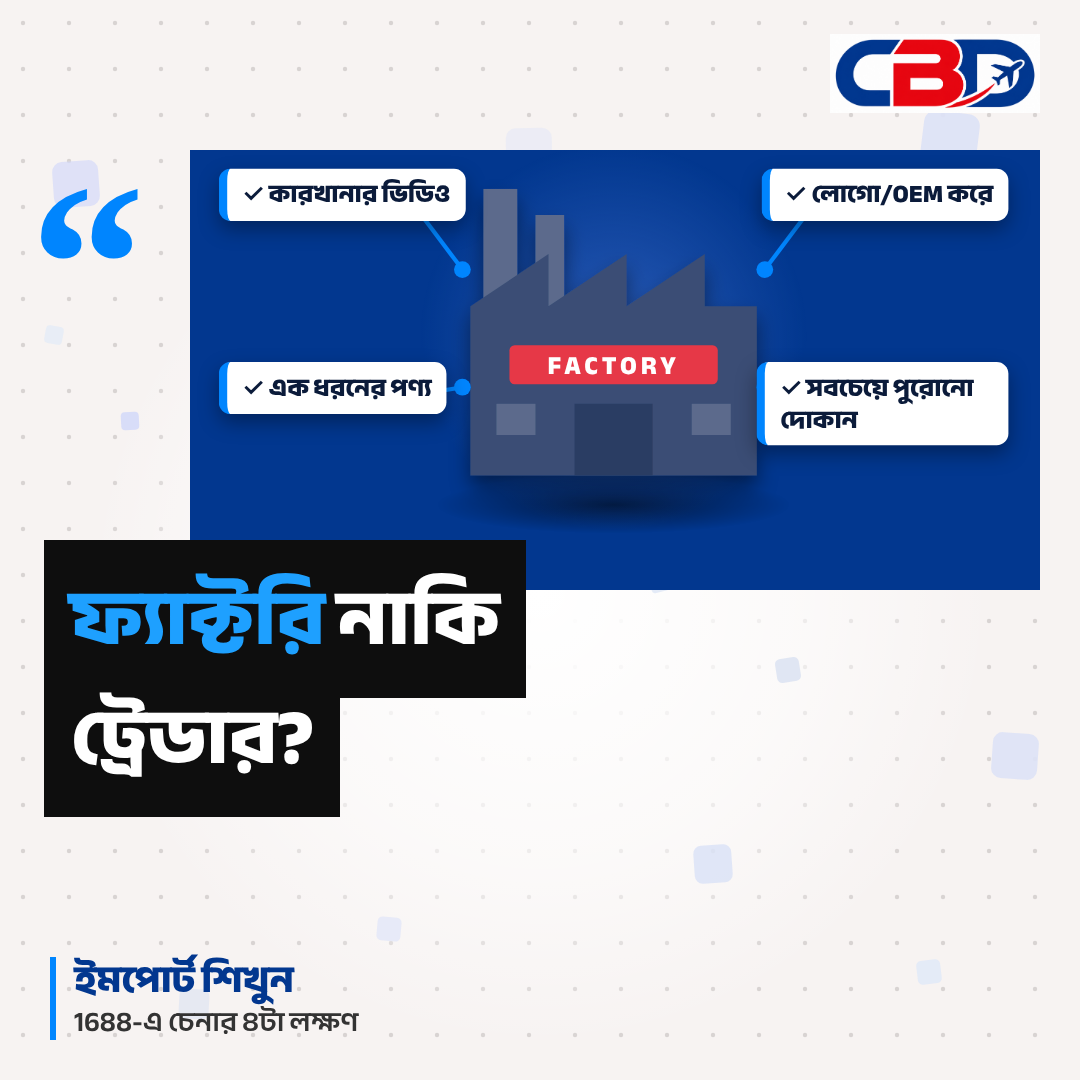
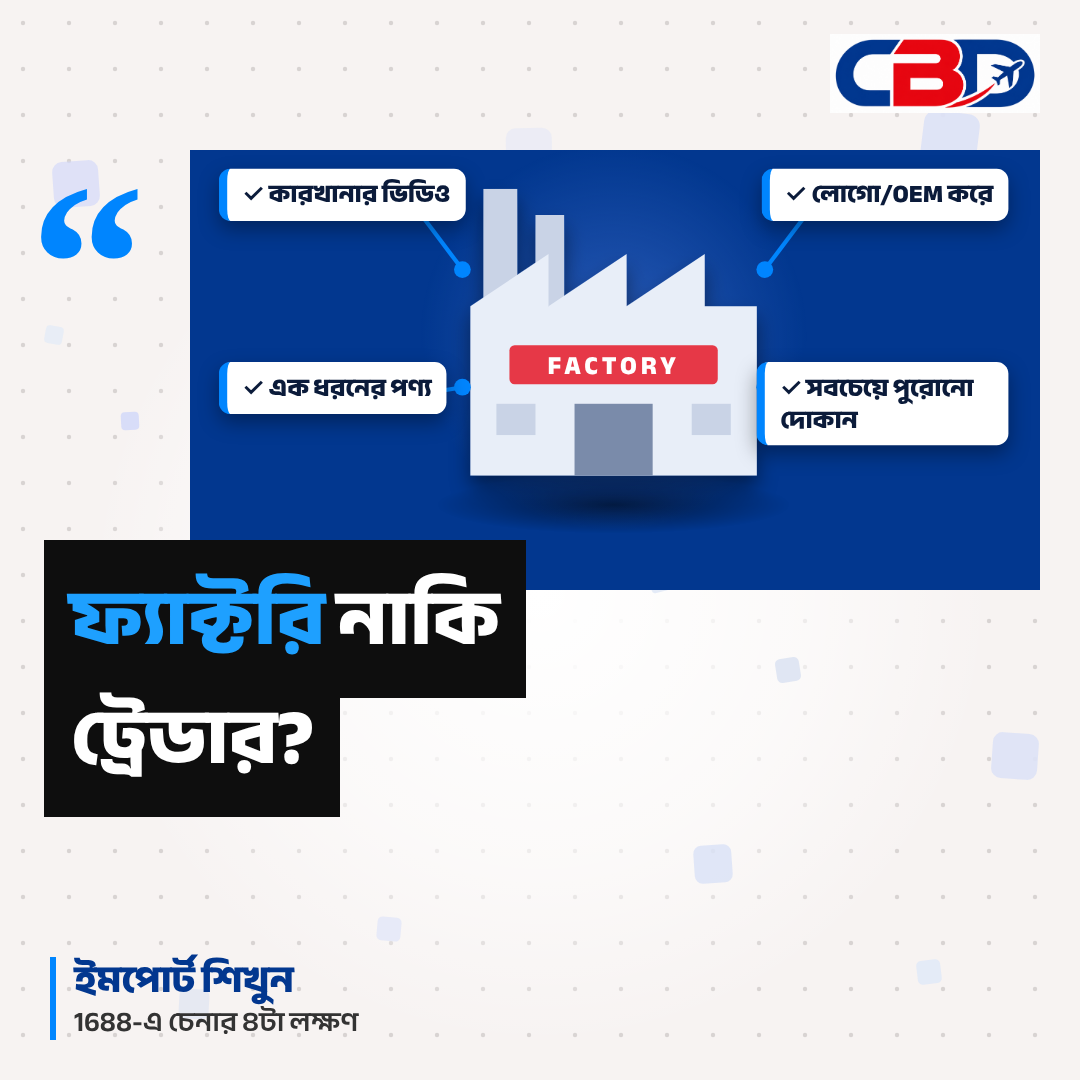
Lighter factory colours for blue panel
Claude-Session: https://claude.ai/code/session_01Ho2sCShjj4vXh6o5PQf3tP

Changed region(s): [[0.4278, 0.1528, 0.7028, 0.4583]]

diff --git a/scripts/creative.py b/scripts/creative.py
@@ -42,7 +42,7 @@ BASE = {
     "trophy": dict(main="#F4C430", dark="#C99A0E", light="#FFE07A", accent="#8A5A00", ink="#7A5A00", white="#FFFFFF"),
     "chair": dict(main="#3A4D75", dark="#1A2747", light="#5B6B8C", accent="#5B8DEF", ink="#0B1B3A", white="#FFFFFF"),
     "pan": dict(main="#3B3F46", dark="#1E2126", light="#6B7280", accent="#FFB000", ink="#0B1B3A", white="#FFFFFF"),
-    "factory": dict(main="#3A4D75", dark="#2C3D63", light="#5B6B8C", accent="#E63946", ink="#0B1B3A", white="#FFFFFF"),
+    "factory": dict(main="#E8EEF8", dark="#7A8BAA", light="#C9D3E6", accent="#E63946", ink="#0B1B3A", white="#FFFFFF"),
 }
 
 MATERIALS = {
